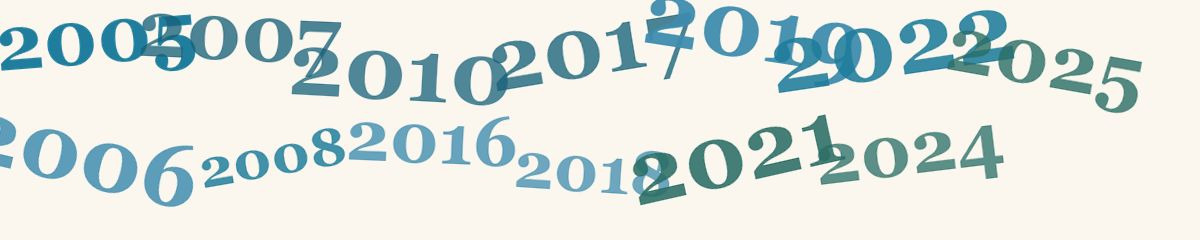
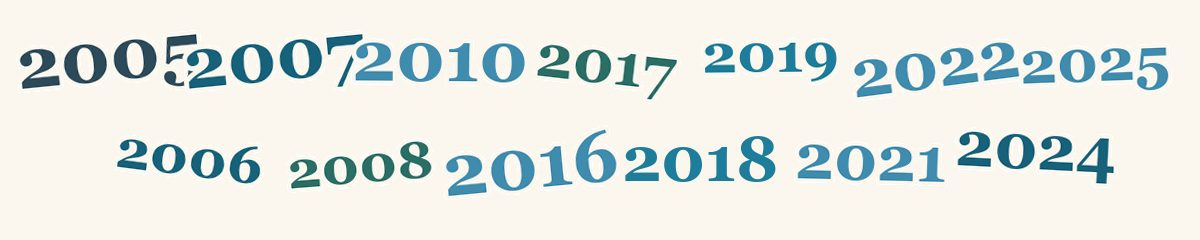
Gallery collage: clearer year layout (grid + paper halos, less overlap)

Changed region(s): [[0.0, 0.0, 0.9867, 0.4667], [0.0, 0.4667, 0.925, 0.875]]

diff --git a/index.html b/index.html
@@ -238,7 +238,7 @@
   .btn.bg-walks small{color:#42513a}
   .btn.bg-gallery{position:relative; overflow:hidden; border-color:#c3d3d9}
   .btn.bg-gallery::before{content:""; position:absolute; inset:0; z-index:0;
-    background:linear-gradient(90deg, rgba(251,247,239,.93) 0%, rgba(251,247,239,.80) 45%, rgba(251,247,239,.5) 100%), url(img/collage-gallery.jpg?v=1) center/cover no-repeat;}
+    background:linear-gradient(90deg, rgba(251,247,239,.93) 0%, rgba(251,247,239,.80) 45%, rgba(251,247,239,.5) 100%), url(img/collage-gallery.jpg?v=2) center/cover no-repeat;}
   .btn.bg-gallery > *{position:relative; z-index:1}
   .btn.bg-gallery small{color:#33505c}
 

diff --git a/sw.js b/sw.js
@@ -1,4 +1,4 @@
-const CACHE = 'portscatho-v24';
+const CACHE = 'portscatho-v25';
 const ASSETS = ['index.html', 'manifest.webmanifest', 'icons/icon.svg', 'tides.json'];
 
 self.addEventListener('install', e => {
